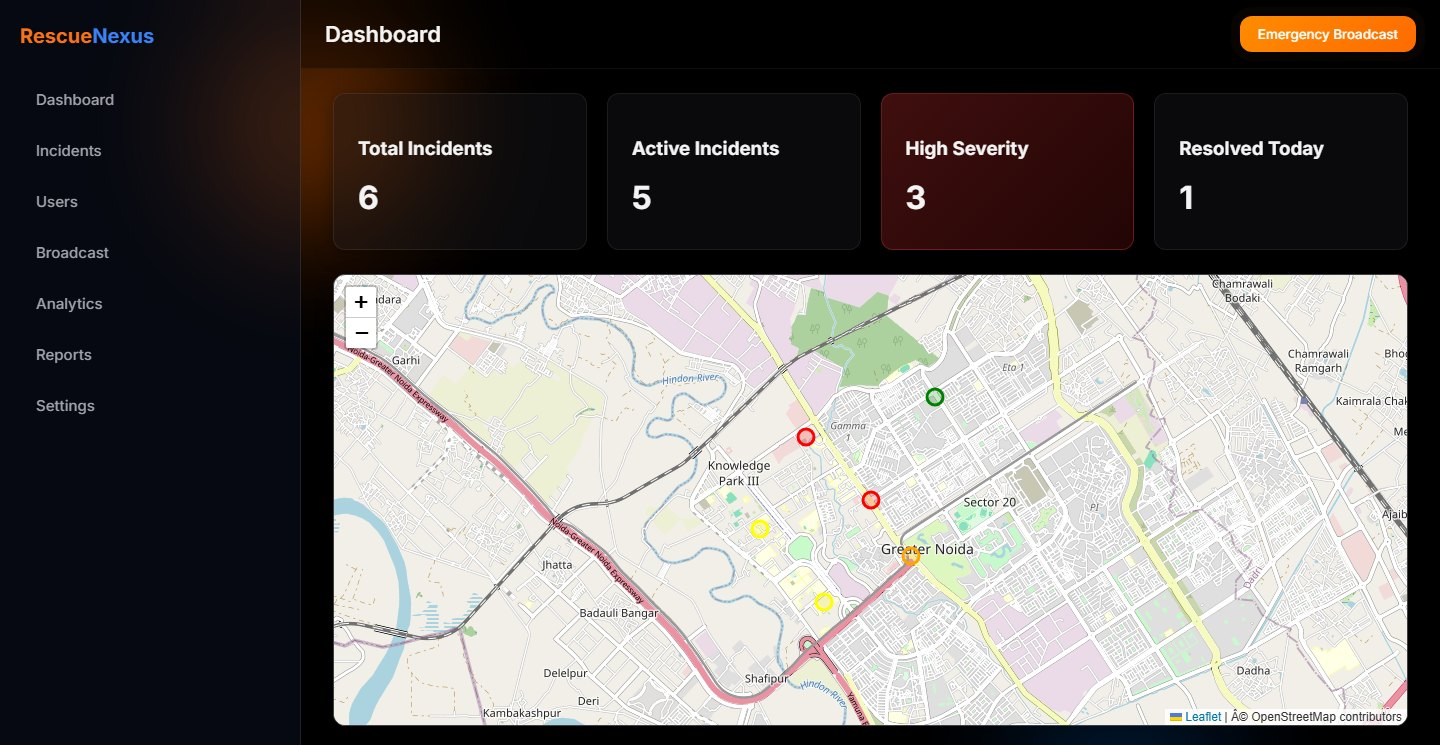
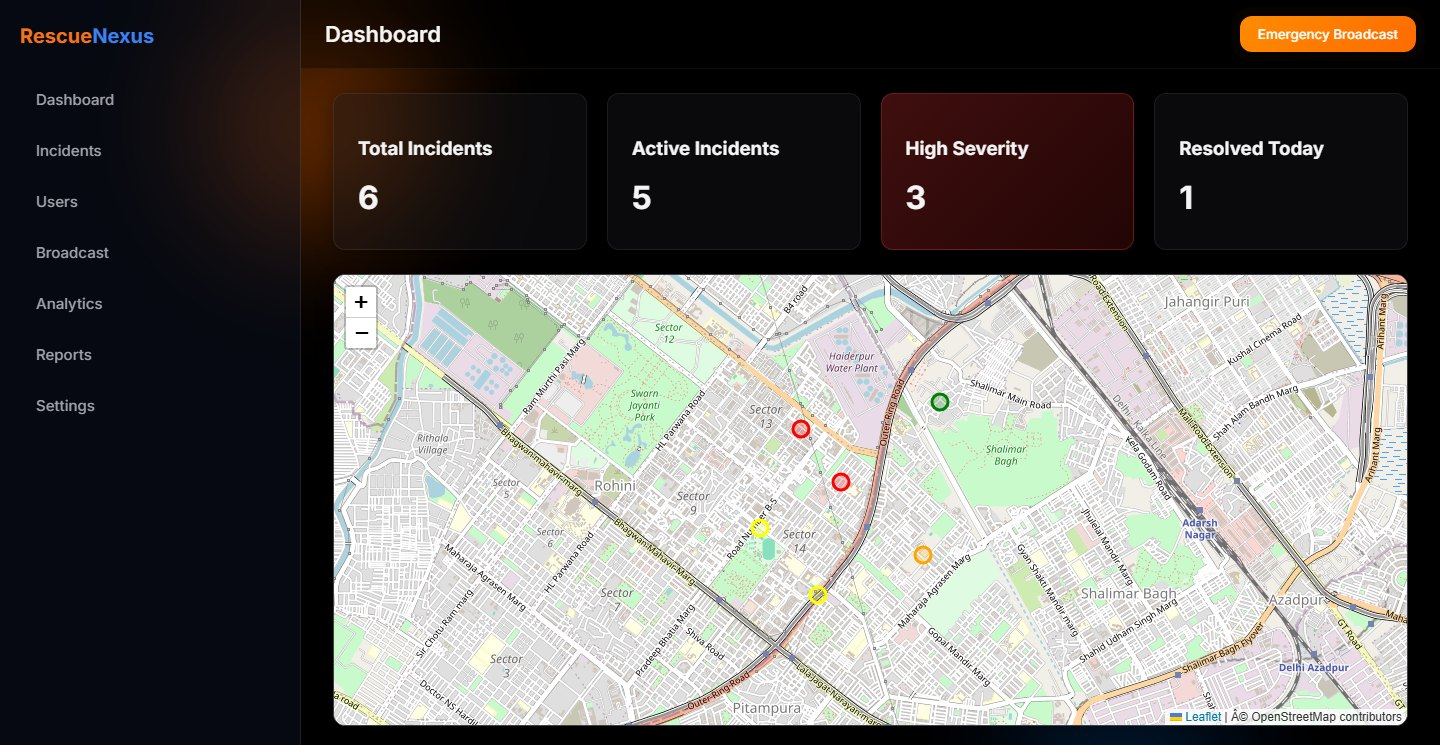
Move to Pitampura, Delhi and update pitch deck
- Default map center is now Uttari Pitampura, Delhi
- Deck: BA LLB Semester XI, Pitampura location, new screenshots
- Deck: lower monthly costs with a rough AWS plan, new running-costs slide
- Deck: larger bottom-centre glass controls, citizen and admin demo links

Changed region(s): [[0.2188, 0.3705, 1.0, 0.9879]]

diff --git a/PSDA-Pitch-Deck/index.html b/PSDA-Pitch-Deck/index.html
@@ -98,7 +98,8 @@ ul, ol { list-style: none; }
     margin-top: auto;
     height: 64px;
     display: grid;
-    grid-template-columns: 1fr auto 1fr;
+    grid-template-columns: 1fr auto auto;
+    gap: 28px;
     align-items: center;
     border-top: 1px solid var(--line);
     font-size: 14px;
@@ -340,7 +341,48 @@ ul, ol { list-style: none; }
 .src-row small { display: block; margin-top: 4px; font-size: 14px; color: var(--faint); }
 .src-row .amt { font-size: 20px; font-weight: 600; }
 
-/* ---------- Slide 7: earnings ---------- */
+/* ---------- Slide 7: running costs & AWS ---------- */
+.run {
+    flex: 1;
+    display: grid;
+    grid-template-columns: 1fr 1fr;
+    gap: 56px;
+    margin-top: 36px;
+}
+
+.costs li.sum, .aws li.sum { border-top: 1px solid var(--line-strong); color: var(--text); font-weight: 600; }
+.run-note { margin-top: 18px; font-size: 16px; color: var(--muted); }
+.run-note b { color: var(--text); font-weight: 600; }
+
+.aws {
+    background: var(--raise);
+    border: 1px solid var(--line);
+    border-radius: var(--radius);
+    padding: 22px 26px;
+    align-self: start;
+}
+
+.aws-head { display: flex; gap: 14px; align-items: flex-start; margin-bottom: 10px; }
+.aws-head i { font-size: 28px; color: var(--accent); }
+.aws-head h3 { font-size: 20px; font-weight: 600; }
+.aws-head p { margin-top: 4px; font-size: 14px; color: var(--faint); }
+
+.aws li {
+    display: flex;
+    justify-content: space-between;
+    align-items: baseline;
+    gap: 16px;
+    padding: 8px 0;
+    border-top: 1px solid var(--line);
+    font-size: 16px;
+    color: var(--muted);
+}
+
+.aws li small { margin-left: 8px; font-size: 13px; color: var(--faint); }
+.aws li b { color: var(--text); font-weight: 600; white-space: nowrap; }
+.aws-note { margin-top: 12px; font-size: 14px; line-height: 1.5; color: var(--faint); }
+
+/* ---------- Slide 8: earnings ---------- */
 .plans {
     margin-top: 40px;
     display: grid;
@@ -461,22 +503,48 @@ ul, ol { list-style: none; }
 }
 
 .close .thanks { font-size: 30px; font-weight: 600; letter-spacing: -0.02em; }
-.close a { color: var(--text); font-size: 16px; text-decoration: none; border-bottom: 1px solid var(--accent); padding-bottom: 2px; }
+.demo-links { display: flex; flex-direction: column; gap: 10px; align-items: flex-end; }
+
+.demo-links a {
+    display: inline-flex;
+    align-items: center;
+    gap: 8px;
+    color: var(--text);
+    font-size: 16px;
+    text-decoration: none;
+    border-bottom: 1px solid var(--accent);
+    padding-bottom: 2px;
+    white-space: nowrap;
+}
+
+.demo-links i { color: var(--accent); font-size: 18px; }
 
 /* ---------- Controls ---------- */
 .controls {
     position: fixed;
-    top: 14px;
-    right: 14px;
+    bottom: 20px;
+    left: 50%;
+    transform: translateX(-50%);
     display: flex;
     align-items: center;
-    gap: 2px;
-    padding: 4px;
-    border-radius: var(--radius);
-    background: rgba(16, 21, 31, 0.92);
-    border: 1px solid var(--line);
+    gap: 4px;
+    padding: 6px;
+    border-radius: 999px;   /* interactive controls are pills; content uses 10px */
+    background: linear-gradient(135deg, rgba(255, 255, 255, 0.12), rgba(255, 255, 255, 0.03)), rgba(16, 21, 31, 0.5);
+    border: 1px solid rgba(255, 255, 255, 0.16);
+    box-shadow: inset 0 1px 0 rgba(255, 255, 255, 0.14), 0 18px 50px rgba(3, 6, 12, 0.55);
+    backdrop-filter: blur(18px) saturate(150%);
+    -webkit-backdrop-filter: blur(18px) saturate(150%);
     z-index: 10;
     transition: opacity 0.3s ease;
+}
+
+.counter {
+    min-width: 76px;
+    text-align: center;
+    font-family: "Geist Mono", monospace;
+    font-size: 15px;
+    color: var(--muted);
 }
 
 .controls.hidden { opacity: 0; pointer-events: none; }
@@ -485,16 +553,16 @@ ul, ol { list-style: none; }
     border: 0;
     background: transparent;
     color: var(--text);
-    width: 38px;
-    height: 38px;
-    border-radius: 7px;
+    width: 48px;
+    height: 48px;
+    border-radius: 50%;
     cursor: pointer;
     display: grid;
     place-items: center;
-    font-size: 18px;
+    font-size: 22px;
 }
 
-.controls button:hover { background: rgba(255, 255, 255, 0.07); }
+.controls button:hover { background: rgba(255, 255, 255, 0.1); }
 .controls button:active { transform: scale(0.96); }
 .controls button:focus-visible { outline: 2px solid var(--accent); outline-offset: 1px; }
 
@@ -545,17 +613,17 @@ ul, ol { list-style: none; }
         <div>
             <div class="mark wordmark">Rescue<span>Nexus</span></div>
             <h1 class="title-h">Emergency help, one tap away.</h1>
-            <p class="title-sub">A reporting and alert service for housing societies, campuses and cities, starting in Greater Noida.</p>
+            <p class="title-sub">A reporting and alert service for housing societies, campuses and cities, starting in Pitampura, Delhi.</p>
             <div class="founders" id="founders"></div>
         </div>
         <div>
-            <div class="shot title-shot"><img src="assets/control-room.jpg" alt="RescueNexus control room showing live emergencies on a map of Greater Noida"></div>
+            <div class="shot title-shot"><img src="assets/control-room.jpg" alt="RescueNexus control room showing live emergencies on a map of Pitampura, Delhi"></div>
             <p class="shot-caption">The RescueNexus control room, working today.</p>
         </div>
     </div>
     <div class="foot">
-        <span>PSDA: Pitch Your Startup</span>
-        <span>Entrepreneurship Development, Semester IX</span>
+        <span>PSDA: Pitch Your Startup, Entrepreneurship Development</span>
+        <span>BA LLB, Semester XI</span>
         <span class="page"></span>
     </div>
 </section>
@@ -657,7 +725,7 @@ ul, ol { list-style: none; }
     <dl class="facts">
         <div>
             <dt>Location</dt>
-            <dd><b>Greater Noida, Uttar Pradesh</b><p>Hundreds of new housing societies, the Knowledge Park colleges and busy expressways, close to Delhi-NCR investors.</p></dd>
+            <dd><b>Pitampura, Delhi</b><p>A dense residential area with DDA flats, housing societies and active RWAs, next to the Netaji Subhash Place business hub and on the Metro Red Line.</p></dd>
         </div>
         <div>
             <dt>Set-up</dt>
@@ -690,12 +758,12 @@ ul, ol { list-style: none; }
                 <p class="label">to run the first year</p>
             </div>
             <ul class="costs">
-                <li>Marketing and awareness<b>₹2,00,000</b></li>
-                <li>Building and running the service<b>₹2,00,000</b></li>
-                <li>Safety reserve<b>₹2,00,000</b></li>
-                <li>Team travel and field visits<b>₹1,75,000</b></li>
-                <li>Office rent, 12 months<b>₹1,50,000</b></li>
-                <li>Registration and legal work<b>₹75,000</b></li>
+                <li>Running costs for 12 months (₹30,000 a month)<b>₹3,60,000</b></li>
+                <li>Launch marketing and free trials<b>₹1,90,000</b></li>
+                <li>Finishing the service<b>₹1,50,000</b></li>
+                <li>Safety reserve<b>₹1,50,000</b></li>
+                <li>Laptops and office set-up<b>₹1,00,000</b></li>
+                <li>Registration, trademark and legal work<b>₹50,000</b></li>
             </ul>
         </div>
 
@@ -727,7 +795,51 @@ ul, ol { list-style: none; }
     </div>
 </section>
 
-<!-- 7. EARNINGS -->
+<!-- 7. RUNNING COSTS & AWS PLAN -->
+<section class="slide" data-speaker="0">
+    <h2 class="h">Lean to run: <em>₹30,000 a month</em></h2>
+
+    <div class="run">
+        <div>
+            <ul class="costs">
+                <li>Help desk assistant, part-time<b>₹8,000</b></li>
+                <li>Shared office desk in Pitampura<b>₹6,000</b></li>
+                <li>Ongoing marketing<b>₹5,000</b></li>
+                <li>Cloud hosting on AWS<b>₹3,500</b></li>
+                <li>Travel and field visits<b>₹3,000</b></li>
+                <li>Accountant and legal filings<b>₹2,500</b></li>
+                <li>Phones and internet<b>₹2,000</b></li>
+                <li class="sum">Total per month<b>₹30,000</b></li>
+            </ul>
+            <p class="run-note"><b>Founders take no salary in Year 1.</b> Profits go back into growth.</p>
+        </div>
+
+        <div class="aws">
+            <div class="aws-head">
+                <i class="ph ph-cloud"></i>
+                <div><h3>Our AWS plan</h3><p>Amazon Web Services, Mumbai region. Rough monthly estimate.</p></div>
+            </div>
+            <ul>
+                <li><span>Website and app<small>Amazon Lightsail</small></span><b>₹1,000</b></li>
+                <li><span>Database of all reports<small>Amazon RDS</small></span><b>₹1,500</b></li>
+                <li><span>SMS alerts, about 2,500 a month<small>Amazon SNS</small></span><b>₹600</b></li>
+                <li><span>Backups and web address</span><b>₹200</b></li>
+                <li><span>Photo storage<small>Amazon S3</small></span><b>₹150</b></li>
+                <li><span>Email alerts<small>Amazon SES</small></span><b>₹50</b></li>
+                <li class="sum"><span>Total</span><b>about ₹3,500</b></li>
+            </ul>
+            <p class="aws-note">Pay only for what we use. We will apply for AWS Activate startup credits to cover the first year.</p>
+        </div>
+    </div>
+
+    <div class="foot">
+        <span class="mark">Rescue<span>Nexus</span></span>
+        <span data-presenter></span>
+        <span class="page"></span>
+    </div>
+</section>
+
+<!-- 8. EARNINGS -->
 <section class="slide" data-speaker="1">
     <h2 class="h">Simple monthly plans, <em>steady income</em></h2>
 
@@ -761,9 +873,9 @@ ul, ol { list-style: none; }
     <div class="equation">
         <div><div class="num">₹1.27 lakh</div><small>monthly income</small></div>
         <div class="num op">−</div>
-        <div><div class="num">₹80,000</div><small>monthly costs</small></div>
+        <div><div class="num">₹30,000</div><small>monthly costs</small></div>
         <div class="num op">=</div>
-        <div class="res"><div class="num">₹47,000</div><small>monthly profit</small></div>
+        <div class="res"><div class="num">₹97,000</div><small>monthly profit, about ₹11.7 lakh a year</small></div>
         <p class="goal">Once we reach <b>25 societies, 8 campuses or businesses and 1 city</b>. Our goal is to get there within the first year.</p>
     </div>
 
@@ -776,7 +888,7 @@ ul, ol { list-style: none; }
     </div>
 </section>
 
-<!-- 8. PROMOTION -->
+<!-- 9. PROMOTION -->
 <section class="slide" data-speaker="2">
     <h2 class="h">How people will <em>hear about us</em></h2>
 
@@ -798,7 +910,7 @@ ul, ol { list-style: none; }
                 <p class="when">Months 4-8</p>
                 <h3>Spread it</h3>
                 <ul>
-                    <li>Student ambassadors in Knowledge Park colleges</li>
+                    <li>Student ambassadors in North Delhi colleges</li>
                     <li>Short safety videos on Instagram and YouTube</li>
                     <li>Posts in society WhatsApp groups</li>
                 </ul>
@@ -808,7 +920,7 @@ ul, ol { list-style: none; }
                 <p class="when">Months 9-12</p>
                 <h3>Grow it</h3>
                 <ul>
-                    <li>Road Safety Week tie-up with traffic police</li>
+                    <li>Road Safety Week tie-up with Delhi Traffic Police</li>
                     <li>Stories in local newspapers and FM radio</li>
                     <li>Refer a society, get one month free</li>
                 </ul>
@@ -828,7 +940,7 @@ ul, ol { list-style: none; }
     </div>
 </section>
 
-<!-- 9. THE ASK -->
+<!-- 10. THE ASK -->
 <section class="slide" data-speaker="0">
     <h2 class="h">Our offer to the panel</h2>
 
@@ -847,16 +959,19 @@ ul, ol { list-style: none; }
         <div class="use">
             <h3>How we will use your money</h3>
             <ul>
-                <li>Marketing and awareness<b>₹2,00,000</b></li>
-                <li>Free trials in 25 societies<b>₹1,50,000</b></li>
-                <li>Building and running the service<b>₹1,50,000</b></li>
+                <li>Launch marketing and free trials<b>₹2,00,000</b></li>
+                <li>Finishing the service<b>₹1,50,000</b></li>
+                <li>Laptops and office set-up<b>₹1,00,000</b></li>
+                <li>Safety reserve<b>₹1,00,000</b></li>
                 <li>Company registration and trademark<b>₹50,000</b></li>
-                <li>Safety reserve<b>₹50,000</b></li>
                 <li class="total">Total<b>₹6,00,000</b></li>
             </ul>
             <div class="close">
                 <span class="thanks">Thank you. Questions?</span>
-                <a href="https://rescue-nexus-main.vercel.app/login.html" target="_blank" rel="noopener">Try the live demo</a>
+                <div class="demo-links">
+                    <a href="https://rescue-nexus-main.vercel.app/login.html" target="_blank" rel="noopener"><i class="ph ph-user"></i>Try citizen panel</a>
+                    <a href="https://rescue-nexus-main.vercel.app/" target="_blank" rel="noopener"><i class="ph ph-squares-four"></i>Try admin panel</a>
+                </div>
             </div>
         </div>
     </div>
@@ -873,6 +988,7 @@ ul, ol { list-style: none; }
 
 <div class="controls" id="controls">
     <button id="prevBtn" aria-label="Previous slide"><i class="ph ph-caret-left"></i></button>
+    <span class="counter" id="counter">1 / 10</span>
     <button id="nextBtn" aria-label="Next slide"><i class="ph ph-caret-right"></i></button>
     <button id="fsBtn" aria-label="Full screen (F)"><i class="ph ph-corners-out"></i></button>
 </div>
@@ -938,6 +1054,7 @@ function show(index) {
     current = Math.max(0, Math.min(slides.length - 1, index));
     slides.forEach((s, i) => s.classList.toggle("active", i === current));
     progress.style.width = `${((current + 1) / slides.length) * 100}%`;
+    document.getElementById("counter").textContent = `${current + 1} / ${slides.length}`;
     history.replaceState(null, "", "#" + (current + 1));
 }
 

diff --git a/frontend/assets/js/config.js b/frontend/assets/js/config.js
@@ -22,10 +22,10 @@ window.APP_CONFIG = {
    DEPLOYED_API_URL: "/api",
 
    /* -------------------------------
-      DEFAULT MAP VIEW (Greater Noida)
+      DEFAULT MAP VIEW (Uttari Pitampura, Delhi)
    ------------------------------- */
-   MAP_CENTER: [28.4744, 77.5040],
-   MAP_ZOOM: 13,
+   MAP_CENTER: [28.7151, 77.1390],
+   MAP_ZOOM: 14,
 
    /* -------------------------------
       MAP TILES

diff --git a/config.py b/config.py
@@ -84,5 +84,5 @@ CORS_ORIGINS = [o.strip() for o in _get("CORS_ORIGINS", "*").split(",") if o.str
 # -----------------------------------------
 # MAP DEFAULTS (Streamlit admin)
 # -----------------------------------------
-DEFAULT_MAP_LAT = float(_get("DEFAULT_MAP_LAT", "28.4744"))
-DEFAULT_MAP_LNG = float(_get("DEFAULT_MAP_LNG", "77.5040"))
+DEFAULT_MAP_LAT = float(_get("DEFAULT_MAP_LAT", "28.7151"))
+DEFAULT_MAP_LNG = float(_get("DEFAULT_MAP_LNG", "77.1390"))
